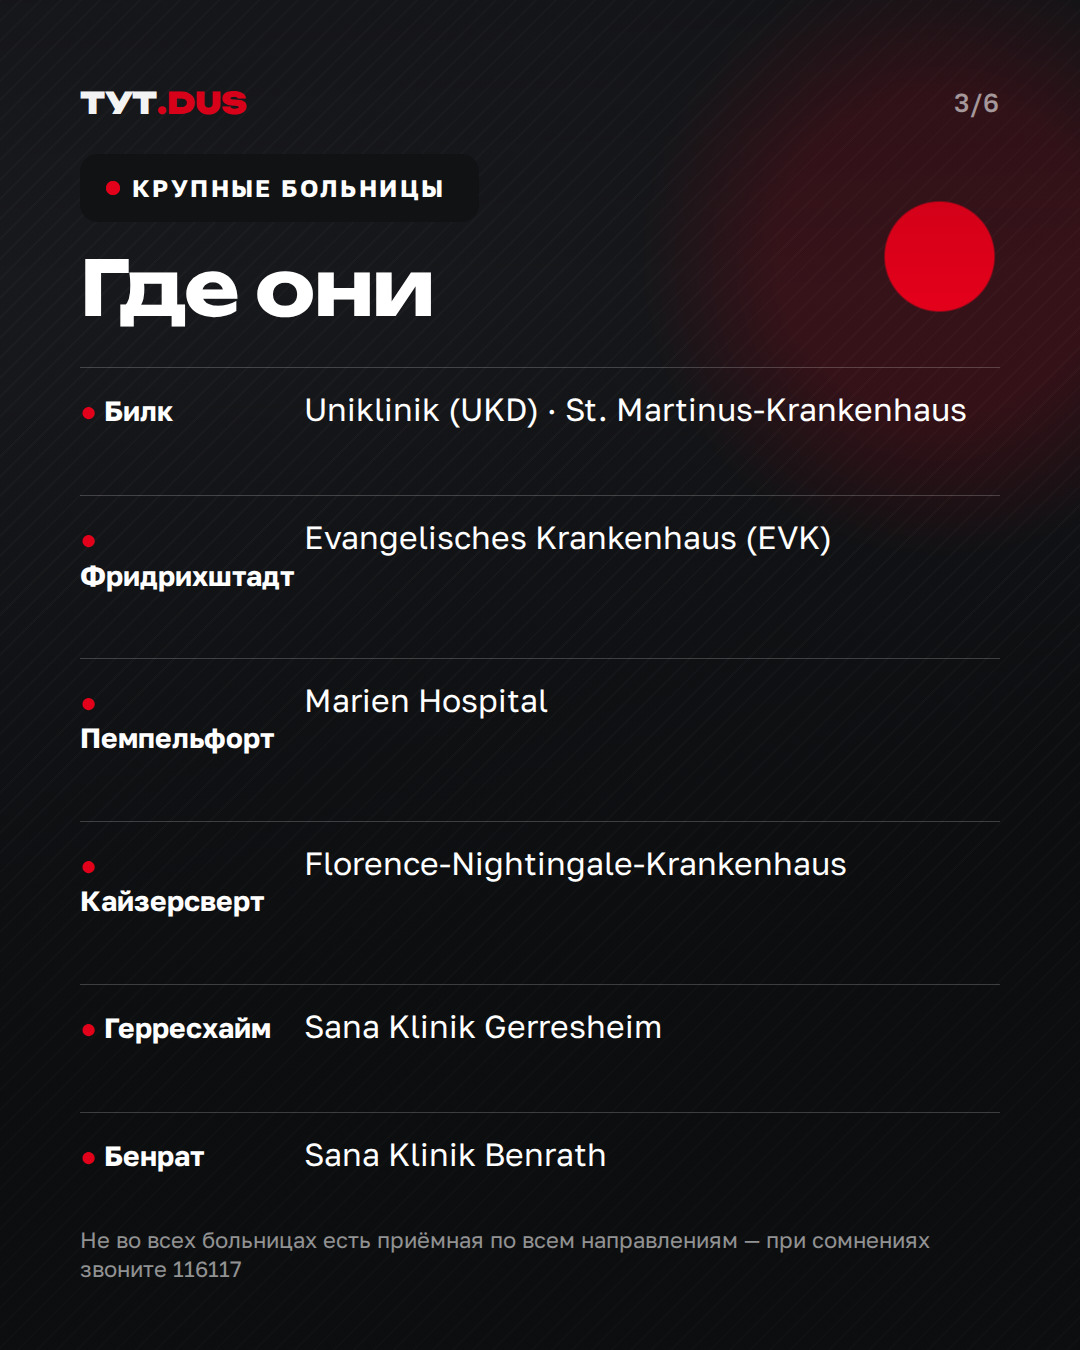
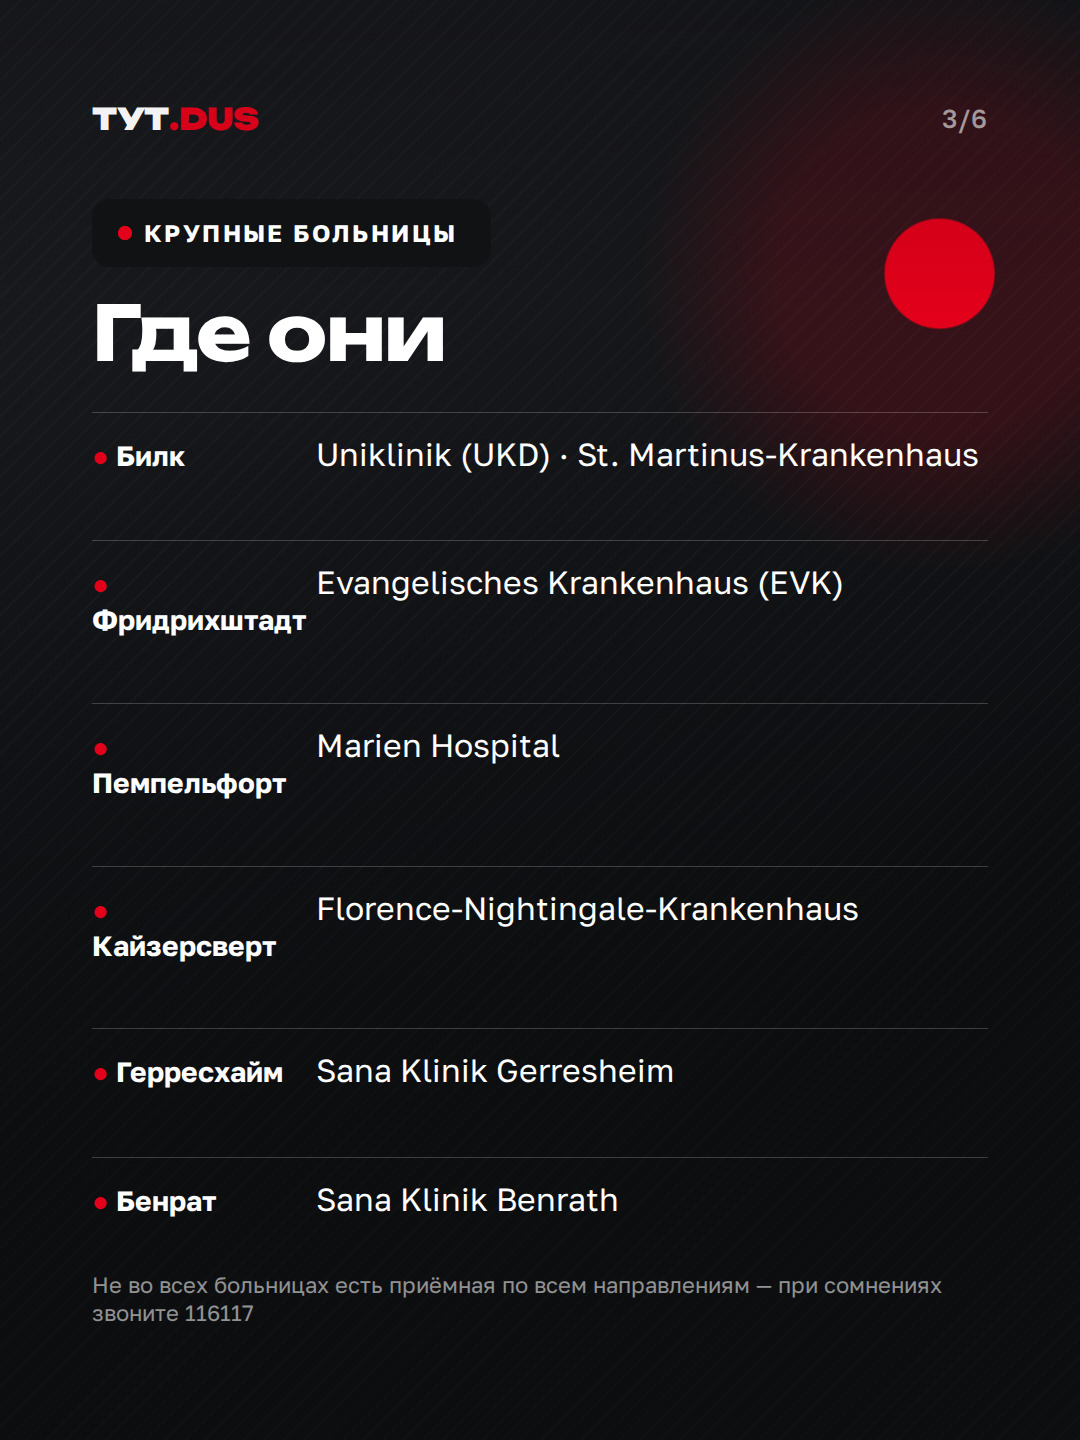
Series slides in 3:4 (1080×1440) so Instagram's feed and profile grid don't crop them
Claude-Session: https://claude.ai/code/session_01UxqiuRyKATWs1Brw29vXzP

diff --git a/tools/series/build.py b/tools/series/build.py
@@ -18,14 +18,15 @@ issue.json:
   ]
 }
 Фон — путь из library/ (подпись автора берётся из library/backgrounds.json); null — фирменный фон.
-Результат: c1.jpg… (1080×1350), caption.txt, post.json со статусом manual (черновик придёт владельцу в Telegram).
+Результат: c1.jpg… (1080×1440, формат 3:4 как в ленте Instagram), caption.txt, post.json со статусом manual (черновик придёт владельцу в Telegram).
 """
 import html, json, subprocess, sys
 from pathlib import Path
 
 ROOT = Path(__file__).resolve().parents[2]
 CSS = """
-  .slide.v2 { padding: 88px 80px 96px }
+  /* Instagram показывает ленту и сетку профиля в 3:4 — слайд 1080×1440, поля шире, чтобы ничего не резалось */
+  .slide.v2 { height: 1440px; padding: 104px 92px 112px }
   .v2 .big { font: 900 186px/0.92 var(--display); letter-spacing: -.045em; margin: 6px 0 10px; white-space: nowrap }
   .v2 .big em { font-style: normal; color: var(--red) }
   .v2 .what { font: 600 40px/1.25 var(--body); max-width: 900px }

diff --git a/tools/publish.py b/tools/publish.py
@@ -209,7 +209,8 @@ def handle_manual(post_dir, spec, now):
         when = publish_at.astimezone(BERLIN)
         header = (f"📝 <b>Черновик: {_html.escape(spec.get('title', post_dir.name))}</b>\n"
                   f"Опубликовать: <b>{WD[when.weekday()]} {when:%d.%m} в {when:%H:%M}</b>\n\n"
-                  f"1. Сохраните файлы ниже (по порядку).\n2. Instagram → новый пост → {KIND.get(spec['type'], spec['type'])}.\n"
+                  f"1. Сохраните файлы ниже (по порядку).\n2. Instagram → новый пост → {KIND.get(spec['type'], spec['type'])}. "
+                  f"Формат кадра — 3:4 (картинки уже в нём), без обрезки.\n"
                   f"3. Музыка: {_html.escape(spec.get('music_hint', 'спокойная инструментальная, без слов'))}.\n"
                   f"4. Вставьте подпись из последнего сообщения.\n\n"
                   f"После публикации пост сам уйдёт в Telegram-канал.")
